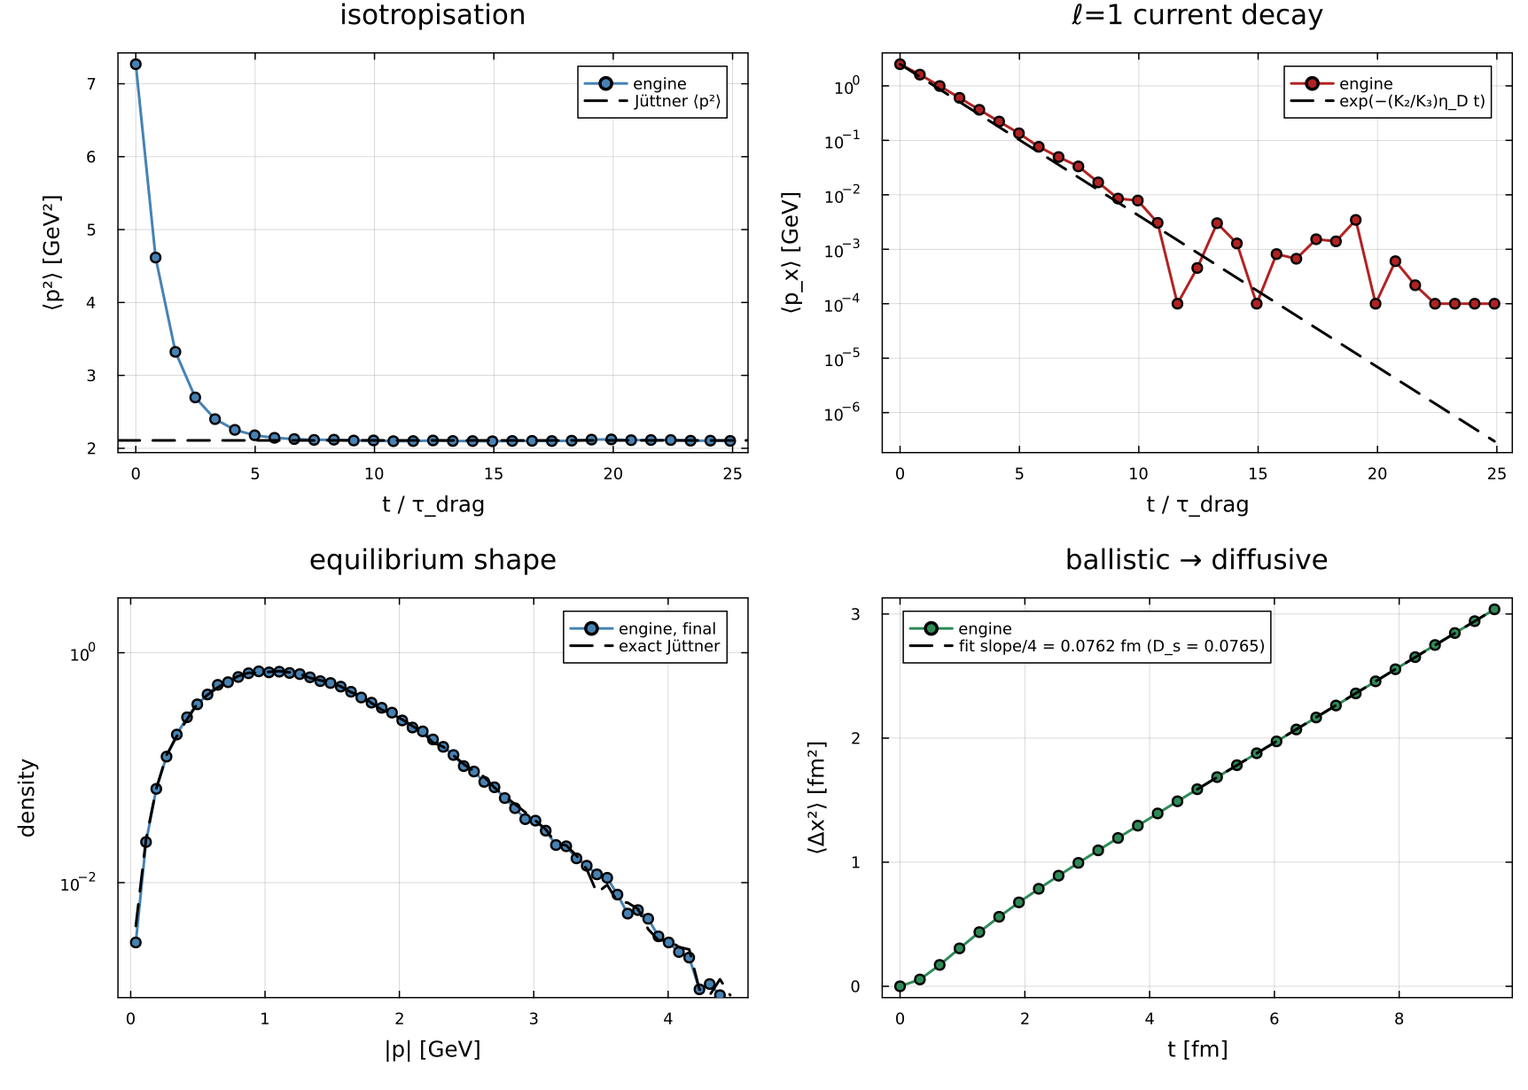
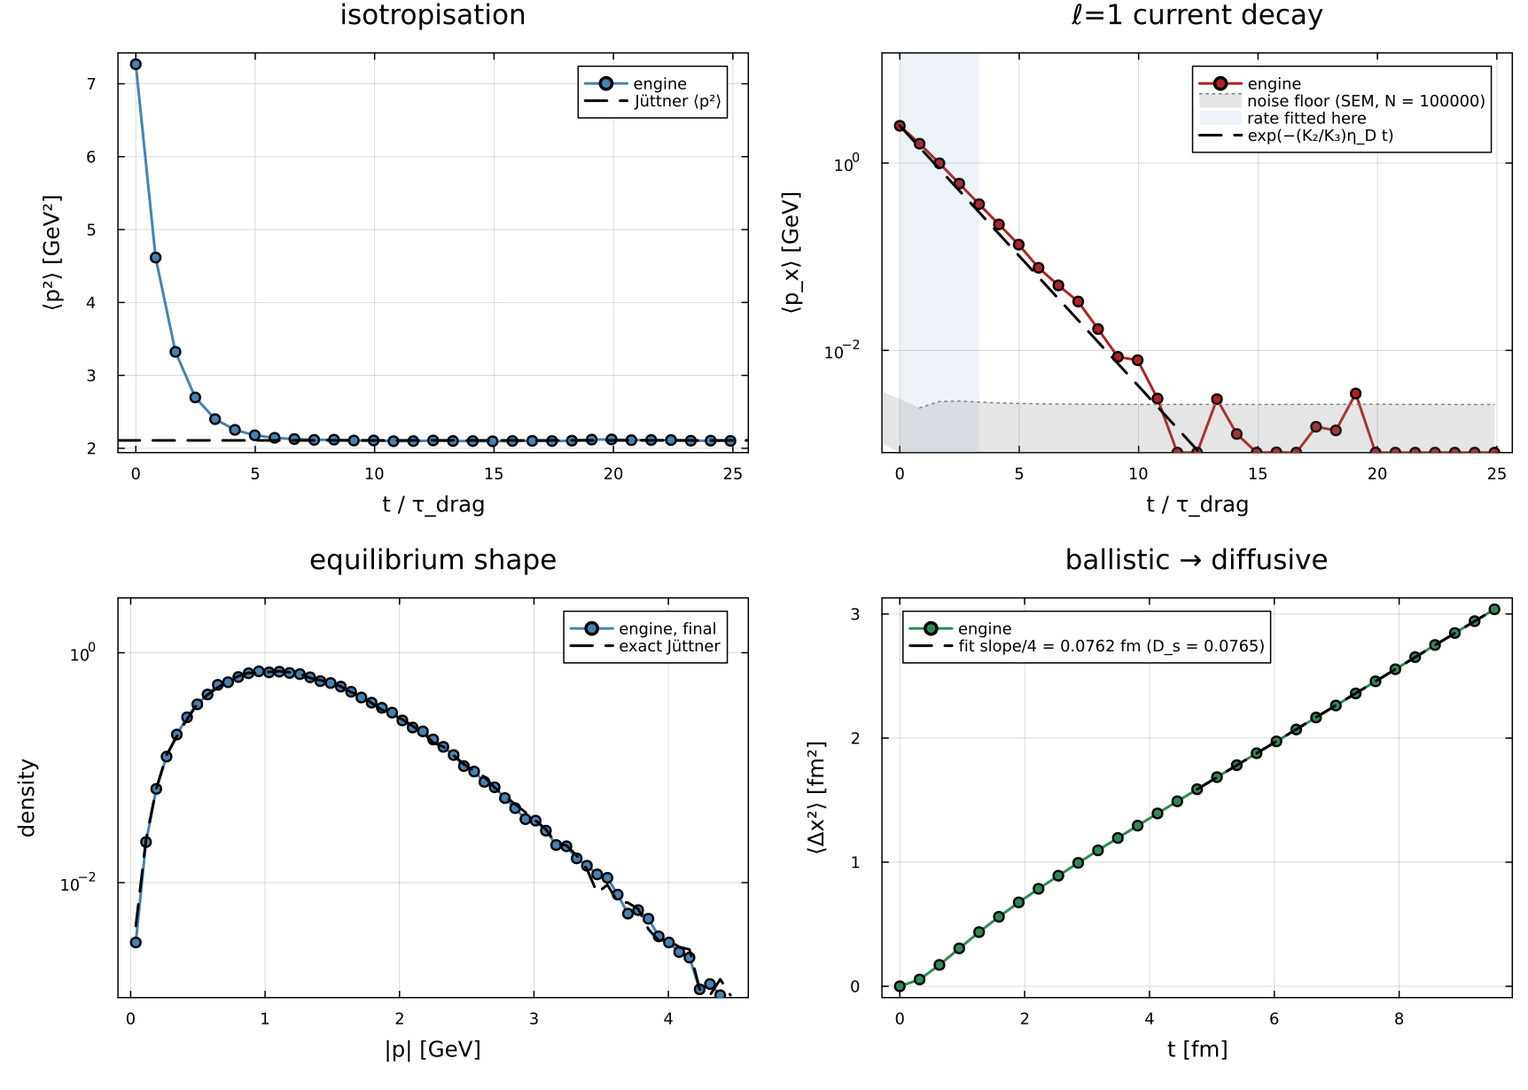
0.2.4 — the README says physics, and three diagnostics that could not be heard
The README's limits section was headed "The example that exists because of a real
bug" and read as an account of which drivers once got it wrong. It now states the
physics: DsT = 0, DsT -> 0+ and :none are three limits because the ORDER of limits
matters, and the numbers quoted are the ones the figure underneath actually
measures (23 %, not the 19.5 % of a gate run at a different tau_f).

S5 was rebuilt rather than dropped. Its gate is PER PARTICLE but the figure was a
|p| histogram, which throws away exactly that and showed two distributions
overlapping. It now draws each particle's residual against its radius with the
predicted one-step lag -m*d(gamma v)/dr*v*dt through it: the measurement sits ON
the prediction and is identically zero past r = 8 fm where dv/dr = 0.

Three defects, none of which moves a number (10/10 corpus hashes bit-identical):

  - The dropped-history warning carried maxlog = 1, which is keyed by source
    location, so in a campaign only the FIRST affected run spoke. Measured: five
    consecutive runs each returned history to 0.9 fm of a requested 1.4 fm --
    half the evolution -- and four were silent. This is the one thing that warning
    exists to prevent.
  - bench_physics_gates gate (b), labelled "tail after 10 tau_drag", measured the
    tail after 5.0: its last snapshot was at exactly half the window. Gate (a)
    lost 12.4 % of its diffusive window. Both PASSED, so only the warning above
[…]

diff --git a/README.md b/README.md
@@ -6,7 +6,7 @@
 </p>
 
 <p align="center">
-  <img alt="version"  src="https://img.shields.io/badge/version-0.2.3-blue">
+  <img alt="version"  src="https://img.shields.io/badge/version-0.2.4-blue">
   <img alt="license"  src="https://img.shields.io/badge/license-MIT-green">
   <img alt="julia"    src="https://img.shields.io/badge/Julia-1.12-9558B2?logo=julia&logoColor=white">
   <img alt="backends" src="https://img.shields.io/badge/backends-CPU%20%2B%20CUDA-76B900">
@@ -18,7 +18,7 @@
 </p>
 <p align="center">
   <sub>
-    <b>Everything above is produced by one 139-line example</b> (<a href="examples/01_uniform_bath.jl"><code>examples/01_uniform_bath.jl</code></a>)
+    <b>Everything above is produced by a single example script</b> (<a href="examples/01_uniform_bath.jl"><code>examples/01_uniform_bath.jl</code></a>)
     and every dashed line is a closed form, not a fit: the Jüttner ⟨p²⟩, the ℓ=1 decay rate
     <code>(K₂/K₃)·η_D</code>, the exact Jüttner momentum distribution, and <code>D_s = D_sT/T·ħc</code>
     from the mean-square displacement (measured −0.45 %).
@@ -117,7 +117,7 @@ LIM_NOPLOT=1 julia --project=Julia .../examples/03_four_limits.jl     # numbers 
 |---|---|---|
 | [**01**](examples/01_uniform_bath.jl) `uniform_bath` | a box at fixed `T`, no flow, a δ-function initial momentum | what `D_sT` actually sets; that ⟨p²⟩ → the Jüttner value, the current decays at `(K₂/K₃)η_D`, and the MSD slope is `2·d·D_s`. **Everything here has a closed form** — if the engine breaks, it breaks here first |
 | [**02**](examples/02_bjorken_fireball.jl) `bjorken_fireball` | a cooling, expanding fireball; the engine samples a FONLL-shaped density; freeze-out off the snapshots | the production shape of a real run, and the radial flow lifting the `p_T` spectrum (⟨p_T⟩ 1.586 → 1.318 GeV) |
-| [**03**](examples/03_four_limits.jl) `four_limits` | `:langevin`, `:rta`, `DsT = 0`, `DsT → 0⁺`, `:none` on one background | **read this one.** Three of those five were confused with each other in production code. See below |
+| [**03**](examples/03_four_limits.jl) `four_limits` | `:langevin`, `:rta`, `DsT = 0`, `DsT → 0⁺`, `:none` on one background | **read this one before choosing a collision setting.** The three weak-coupling settings are three *different* limits, and the figure separates them |
 | [**04**](examples/04_pz_and_rapidity.jl) `pz_and_rapidity` | `momentum_dimensions = 3`, both `pz_init` modes, `track_eta_s` | what row 3 *means* (`p_z* = m_T sinh(y − η_s)`, not a lab `p_z`), and the kernel that makes `dN/dy = ρ(η_s) ⊛ P(K)` exact |
 | [**05**](examples/05_gpu_freezeout.jl) `gpu_freezeout` | the GPU path with `freezeout_capture` | the production pattern: memory ∝ `N` instead of `N·(saves+1)`, the crossing resolved to `Δt`, and the fact that the run does **not** stop at freeze-out |
 
@@ -126,22 +126,33 @@ LIM_NOPLOT=1 julia --project=Julia .../examples/03_four_limits.jl     # numbers 
 <td width="25%"><a href="examples/02_bjorken_fireball.jl"><img src="examples/figures/02_bjorken_fireball.png" alt="02"></a><br><sub><b>02</b> a heavy-ion run: the radial flow lifting the charm p_T spectrum, the freeze-out time distribution, the radial expansion</sub></td>
 <td width="25%"><a href="examples/04_pz_and_rapidity.jl"><img src="examples/figures/04_pz_and_rapidity.png" alt="04"></a><br><sub><b>04</b> the two p_z* initialisations being forgotten, and the dN/dy kernel P(K) they leave behind</sub></td>
 <td width="25%"><a href="examples/05_gpu_freezeout.jl"><img src="examples/figures/05_gpu_freezeout.png" alt="05"></a><br><sub><b>05</b> the GPU freeze-out latch: spectrum, crossing time resolved to Δt, and the freeze-out surface</sub></td>
-<td width="25%"><a href="bench/bench_semianalytic.jl"><img src="bench/results/figures/semianalytic_S5_blastwave_vs_free.png" alt="S5"></a><br><sub><b>S5</b> the comoving blast wave against free streaming — two limits that are <i>not</i> each other</sub></td>
+<td width="25%"><a href="examples/03_four_limits.jl"><img src="examples/figures/03_four_limits.png" alt="03"></a><br><sub><b>03</b> the five collision settings on one background: which of them thermalise, which stay glued to the flow, and which do nothing at all</sub></td>
 </tr>
 </table>
 
-### The example that exists because of a real bug
+### The weak-coupling limits
 
 <p align="center">
-  <img src="examples/figures/03_four_limits.png" alt="The four limits" width="94%">
+  <img src="examples/figures/03_four_limits.png" alt="The collision settings side by side" width="94%">
 </p>
 
-`D_sT = 0` is **not** free streaming — it is the *comoving* limit, every quark handed `p = m·γ(r)v(r)`
-with **no thermal width at all** (the black spike). `D_sT → 0⁺` is a *third* thing: it thermalises
-*with* the fluid and keeps the full Jüttner width, landing ~20 % higher in ⟨p_x⟩ (orange). Free
-streaming is `collision_mode = :none` (red spike), and until v0.2.3 the only thing that actually
-free-streamed was a *negative* `D_sT`, by accident. Three places in the parent repository — including
-a driver that produced a figure — asked for `D_sT = 0` and called the result "free streaming".
+Three settings sit near zero coupling and none of them is the same limit.
+
+`D_sT = 0` is the **comoving** limit: every quark is handed `p = m·γ(r)v(r)` at its own radius, with
+no thermal width at all — `⟨p_x⟩ = 0.86603 GeV` and `sd(p_x) = 0` exactly (the black spike).
+`D_sT → 0⁺` is a **different** limit: the quark thermalises *with* the fluid and keeps the full
+Jüttner width, landing on `γ·v·⟨E*⟩ = 1.068 GeV`, **23 % higher** (orange). **Free streaming** is
+neither, and is `collision_mode = :none` (red spike): no drag, no noise, no frame change, so the
+momenta are exactly constant — the boosted initial momentum, 2.196 GeV, forever.
+
+The two zero-coupling limits differ because the order of limits matters. At `D_sT = 0` the noise is
+switched off before the drag has anywhere to relax to, so the particle *is* the fluid element. At
+`D_sT → 0⁺` drag and noise stay in Einstein balance all the way down, so the equilibrium is the
+local Jüttner however small the coefficient gets. `:none` removes the collision term itself, which
+is a third thing again.
+
+`m ≤ 0` and `D_sT < 0` are refused since v0.2.3; before that they degraded silently to free
+streaming (CHANGELOG 0.2.3).
 
 ## Validation
 
@@ -176,8 +187,8 @@ realised rate was 22 % too fast).
 | Bjorken redshift | `⟨p_z*²⟩ ∝ 1/τ²` telescopes | **2.9e-13** |
 | free streaming + redshift | per-particle closed form for `x_⊥(τ)` | converges at order **1.00** |
 | equilibrium **shape** | two-sample KS vs the exact Jüttner, 2 and 3 rows | 0.0019 / 0.0039 (95 % critical 0.0043) |
-| comoving blast wave | `p = m·γ(r)v(r)`, **per particle** | one-step lag, order **1.00** |
-| MSD slope | `2·d·D_s` at three `z` | 0.9896 / 0.9956 / 0.9975 |
+| comoving blast wave | `p = m·γ(r)v(r)`, **per particle**, and the residual's shape in `r` | the predicted one-step lag `−m·d(γv)/dr·v·Δt`, order **1.00** |
+| MSD slope | `2·d·D_s` at three `z` | 0.9975 / 0.9969 / 0.9975 (CPU) |
 | ℓ=1 rate | `η_D·K₂/K₃` (3 rows), `λ₁(2D)·η_D` (2 rows) | 0.6364 vs 0.6403 · 0.6952 vs 0.6977 |
 
 `σ_xp` is the sharp one: it is built from the momentum update and the position update *together*,
@@ -185,6 +196,16 @@ so an operator-split error shows there while `σ_pp` and `σ_xx` can each look r
 
 <p align="center">
   <img src="bench/results/figures/semianalytic_S1_ou_covariance.png" alt="OU phase-space covariance" width="70%">
+</p>
+
+The comoving limit is checked the same way — per particle, not through a moment. Every quark must
+carry exactly `p = m·γ(r)v(r)` at its own radius, and the residual left over is not merely small but
+*predicted*: the momentum is written at the radius the particle has just left, so it lags by
+`−m·d(γv)/dr·v·Δt`, and it vanishes identically beyond `r = 8 fm` where the flow profile saturates
+and `dv/dr = 0`.
+
+<p align="center">
+  <img src="bench/results/figures/semianalytic_S5_blastwave_vs_free.png" alt="Comoving blast wave, per particle" width="94%">
 </p>
 
 ### How wrong is it at a given Δt?
@@ -207,9 +228,9 @@ D_s is unbiased to ≲1 % for η_D Δt ≤ 0.08
 Israel–Stewart τ_n that Fluidum's `τ_diffusion_hadron` evaluates. For a Fokker–Planck process
 with drag η_D the ℓ=1 mode decays at `η_D·K₂/K₃` (an exact 3-D identity), so a Langevin built
 from `tau_drag` reproduces **both** hydro coefficients, D_s and τ_n. Building the drag from
-`tau_n_main3` applies K₃/K₂ once too often and inflates the realised D_s by 1.26–1.74× — that
-was the state of every product before 2026-08-02. The BGK (`:rta`) path needs τ_n, not the drag
-(`build_taun_current_spline`). `test/runtests.jl` guards the ratio pointwise.
+`tau_n_main3` instead applies K₃/K₂ once too often and inflates the realised D_s by 1.26–1.74×.
+The BGK (`:rta`) path needs τ_n, not the drag (`build_taun_current_spline`).
+`test/runtests.jl` guards the ratio pointwise.
 
 `LV_TAUN_SCALE` (env var, default 1) rescales **both** splines — diagnostic only; it moves D_s
 too. The bench suite refuses to run under any other value.
@@ -220,9 +241,9 @@ A 2-D momentum run relaxes to the 2-D Jüttner, whose ℓ=1 rate differs from th
 `dimensions = 2, momentum_dimensions = 3` is the combination that removes that offset: three
 momentum components on a two-dimensional transverse plane.
 
-**3. `D_sT = 0`, `D_sT → 0⁺` and `:none` are three different limits.** See the figure above.
-`m ≤ 0` and `D_sT < 0` are refused since v0.2.3 — before that they degraded *silently* to free
-streaming, producing a run indistinguishable from a Langevin run except by its numbers.
+**3. `D_sT = 0`, `D_sT → 0⁺` and `:none` are three different limits.** See
+["The weak-coupling limits"](#the-weak-coupling-limits) above. `m ≤ 0` and `D_sT < 0` are refused
+since v0.2.3; before that they degraded silently to free streaming.
 
 
 ## CPU vs GPU
@@ -451,6 +472,39 @@ with the pre-fix measurement in the comment, so a regression has something speci
   no escapes), and `track_eta_s` is an exact passenger (momenta and positions bit-identical with it
   on and off, max |Δ| = **0.000e+00**). The 0.2.1 hot-loop rewrite has held: **0 bytes per
   particle-step** across CPU × N ∈ {2·10⁴, 10⁵} × pdim ∈ {2, 3} × {`:langevin`, `:rta`}.
+
+#### THE DIAGNOSTICS THAT COULD NOT BE HEARD (found 2026-09-15, all FIXED in 0.2.4)
+
+0.2.3 asked what the engine does at a limit. This pass asked the next question — whether the
+warnings it added can actually be *heard* in the way the engine is really driven, which is a
+campaign of many runs in one session. Three defects, none of which moves a number: all ten corpus
+CPU hashes reproduce bit for bit and the GPU moments match.
+
+- 🔴 **The dropped-history warning carried `maxlog = 1`, so only the FIRST affected run in a session
+  said anything.** `maxlog` is keyed by source location — exactly the reason the 0.2.3 window and
+  escaped-particle warnings were deliberately written without it. Losing history silently is the one
+  thing this warning exists to prevent, and it prevented it once per session. Measured: five
+  consecutive `_snapshot_times` calls at t0 = 0.4, tf = 1.4, Δt = 10⁻³, `save_interval` = 0.5 each
+  returned history only out to **0.9 fm of a requested 1.4 fm — half the evolution — and four of the
+  five were silent.** The `maxlog` is gone, and the message now names `requested_final_time` and
+  `last_snapshot` so the size of the loss is in the warning itself. Guarded in `runtests.jl`: five
+  calls must yield five warnings. The guard was falsified against the old behaviour (it sees one).
+- **`_to_cdf!`'s tie-breaking nudge was an absolute `eps(Float64)` and did nothing above a
+  cumulative of ≈10³.** `c[k-1] + 2.2e-16` is not representable next to a value of 10³, so `max`
+  returned `c[k-1]` and the CDF came out flat exactly where the guard was meant to bite — while the
+  docstring promised "strictly increasing". Measured: **149 tied knots at every overall scale ≥ 10³,
+  0 at scale 1**, on a FONLL-shaped density with a hard cutoff over 300 nodes. No result moved (the
+  ties fall in the zero-density tail and the sampled ⟨p⟩ was bit-identical from scale 1 to 10⁹),
+  which is why nothing caught it; a tie in a populated region would not have been harmless. Now
+  `nextfloat`, the representable step at any magnitude.
+- 🔴 **`bench_physics_gates.jl` gate (b) is labelled "tail after 10 τ_drag" and measured the tail
+  after 5.0.** These gates take `tfinal` from a physical time (`10/η_D` = 3.826 fm), so `tfinal/Δt`
+  is an arbitrary real, `steps % save_every ≠ 0`, and with `save = tfinal/2` the whole trailing save
+  interval went: last snapshot **1.914 fm, exactly half the window**. Gate (a) lost 12.4 % of its
+  diffusive window at T = 0.45 and 0.30. **Both gates still passed** — (b) starts in equilibrium, so
+  what it measures is stationary — so nothing announced it except the warning that the defect above
+  had silenced. `box_run` now snaps `tfinal` to an exact multiple of the save interval; all 18 gates
+  still pass, over the windows their labels claim.
 
 #### What regenerates
 

diff --git a/CHANGELOG.md b/CHANGELOG.md
@@ -3,6 +3,70 @@
 Entries marked ⚠ changed the default dynamics or the meaning of a label: outputs produced
 before them are not comparable to outputs produced after.
 
+## 0.2.4 — 2026-09-15  (the dropped-history warning could not be heard, and a gate measured half its window)
+
+No change to the dynamics: all ten `regression_corpus.jl` CPU hashes reproduce bit for bit and the
+GPU moments match. The defects are in the *diagnostics*, in one benchmark's window, and in a guard
+that was silently doing nothing.
+
+### Fixed
+1. 🔴 **The "save_interval does not divide the evolution" warning carried `maxlog = 1`, so in a
+   campaign only the FIRST affected run said so.** `maxlog` is keyed by source location — the exact
+   reason the 0.2.3 window and escaped-particle warnings were written without it (see
+   `_warn_escaped_particles`). Dropping history is precisely what that warning exists to announce,
+   and it announced it once per session. Measured 2026-09-15: five consecutive `_snapshot_times`
+   calls at t0 = 0.4, tf = 1.4, Δt = 10⁻³, `save_interval` = 0.5 each returned history only to
+   **0.9 fm of the requested 1.4 fm — half the evolution — and four of the five were silent**. The
+   `maxlog` is gone and the message now also names `requested_final_time` and `last_snapshot`, so
+   the size of the loss is in the warning rather than left to be worked out. Guarded in
+   `test/runtests.jl` "snapshot time axis matches the snapshots taken": five calls must produce five
+   warnings (the guard was falsified against the old behaviour — it sees 1, and fails).
+2. 🔴 **`bench_physics_gates.jl` gate (b), labelled "tail after 10 τ_drag", measured the tail after
+   5.0 τ_drag.** Its `tfinal` comes from a physical time (`10/η_D = 3.826 fm`), so `tfinal/Δt` is an
+   arbitrary real, `steps % save_every ≠ 0`, and with `save = tfinal/2` the entire trailing save
+   interval went: last snapshot **1.914 fm, exactly half the window**. Gate (a) lost 12.4 % of its
+   diffusive window at T = 0.45 and T = 0.30 the same way. Both gates still PASSED — (b) starts in
+   equilibrium, so its observable is stationary — which is why nothing caught it except the driver
+   warning silenced by defect 1. `box_run` now snaps `tfinal` to an exact multiple of the save
+   interval. All 18 gates still pass, now over the windows their labels claim. The snap also made
+   gate (a) *sharper*, which is the sign the lost window was degrading the measurement and not only
+   mislabelling it: D_s measured/nominal at z = 3.33 / 5.00 / 9.62 went **0.9896 / 0.9956 / 0.9975 →
+   0.9975 / 0.9969 / 0.9975** on the CPU and **0.9948 / 1.0072 / 1.0034 → 0.9978 / 0.9974 / 0.9986**
+   on the GPU — worst deviation 1.04 % → 0.31 %.
+
+3. **`_to_cdf!`'s tie-breaking nudge was an absolute `eps(Float64)`, so it did nothing above a
+   cumulative of ≈10³.** `max(c[k], c[k-1] + eps(Float64))` adds 2.2e-16 — not representable next to
+   a value of 10³ or more, so `max` returned `c[k-1]` and the array came out flat exactly where the
+   guard was meant to bite, while the docstring said "strictly increasing". Measured 2026-09-15 on a
+   FONLL-shaped density with a hard cutoff, 300 nodes: **149 tied knots at every overall scale
+   ≥ 10³, against 0 at scale 1.** It changed no result — the ties land in the zero-density tail,
+   `LinearInterpolation` handles the flat region, and the sampled ⟨p⟩ was bit-identical from scale 1
+   to 10⁹ — which is why nothing caught it, but a tie in a populated region would not have been
+   harmless. Now `nextfloat(c[k-1])`, which is the representable step at any magnitude: strictly
+   increasing at every scale tested, ⟨p⟩ unchanged, all ten corpus hashes unchanged.
+
+### Changed — figures and documentation
+- **`bench_semianalytic.jl` (S5) is plotted as what its gate measures.** The gate is per-particle
+  (`max |p_meas − m·γ(r)v(r)|`, order 1.00); the figure was a histogram of `|p|`, which throws that
+  away and showed the comoving and free-streaming distributions overlapping instead. It now draws
+  each particle's own residual against its radius with the predicted one-step lag
+  `−m·d(γv)/dr·v·Δt` through it — the residual follows the closed form in *shape*, and is
+  identically zero past r = 8 fm where the flow profile saturates and dv/dr = 0 — plus the Δt
+  convergence. The old plot's sign was never stated; the residual is negative (the momentum is
+  written at the radius the particle has just left).
+- **`examples/01_uniform_bath.jl`, the ℓ=1 panel, now draws the statistical floor.** The current
+  decays exponentially for ~11 τ_drag and then flattens into the ensemble's own standard error on
+  ⟨p_x⟩. Unmarked, that tail read as the engine leaving the closed form; the panel now shades the
+  SEM band and the window the rate is actually fitted over. (⚠ the floor is taken over the
+  equilibrated snapshots: the IC is a δ-function in p, so `sem_px[1]` is exactly 0 and a plain
+  minimum collapses the log axis.)
+- **The module docstring said the drag is `η_D = T²/(M·D_sT)·(M/E)`.** That is `η_eff`;
+  `η_D = T²/(M·D_sT)` and the `M/E*` factor is the relativistic branch. The README and the kernel
+  docstrings had it right.
+- **README and `examples/README.md`**: the limits section is written as physics rather than as an
+  account of which parent-repo drivers once got it wrong, and the fourth thumbnail is example 03
+  rather than a bench figure.
+
 ## 0.2.3 — 2026-09-02  (the limits and the input contract: seven defects, all fixed)
 
 ⚠ **THIS RELEASE CHANGES THE DEFAULT DYNAMICS.** Four of the ten `regression_corpus.jl` hashes were

diff --git a/examples/README.md b/examples/README.md
@@ -17,7 +17,7 @@ carry, kept out of the way so each example is only about the engine.
 |---|---|---|
 | `01_uniform_bath.jl` | a box at fixed `T`, no flow, a δ-function initial momentum | ⟨p²⟩ → the Jüttner value, the ℓ=1 current decaying at exactly `(K₂/K₃)η_D`, the MSD slope = `2·d·D_s`, and the final `\|p\|` histogram on top of the exact Jüttner. Everything here has a closed form — if the engine breaks, it breaks here first |
 | `02_bjorken_fireball.jl` | a cooling, radially expanding fireball; the engine samples from a FONLL-shaped density; `DsT_linear`; freeze-out read off the snapshots | the radial flow picking the `p_T` spectrum up, and the freeze-out/initial ratio. Also the cost of doing freeze-out from snapshots: it is resolved to the save cadence, not to `Δt` |
-| `03_four_limits.jl` | Langevin, RTA, `DsT = 0`, `DsT → 0⁺` and `collision_mode = :none`, on one background | **the example to read if you read one.** `DsT = 0` is the *comoving* limit (`p = m·γ·v`, no thermal width), `DsT → 0⁺` is a different limit again (thermal comoving, ≈ 20 % higher `⟨p_x⟩`), and free streaming is `:none`. Three places in this repository had those confused |
+| `03_four_limits.jl` | Langevin, RTA, `DsT = 0`, `DsT → 0⁺` and `collision_mode = :none`, on one background | **the example to read if you read one.** The three weak-coupling settings are three different limits: `DsT = 0` is *comoving* (`p = m·γ·v`, no thermal width), `DsT → 0⁺` is *thermal* comoving (23 % higher `⟨p_x⟩` in this setup), and free streaming is `:none` |
 | `04_pz_and_rapidity.jl` | `momentum_dimensions = 3`, both `pz_init` modes, the Bjorken redshift, `track_eta_s` | what row 3 *means* (`p_z* = m_T sinh(y − η_s)`, not a lab `p_z`), how fast the two initialisations are forgotten, and the `dN/dy` kernel `P(K)` that makes `dN/dy = ρ(η_s) ⊛ P(K)` exact |
 | `05_gpu_freezeout.jl` | the GPU path with `freezeout_capture` | the production pattern: memory ∝ `N` instead of `N·(saves+1)` (≈ 500× here), the crossing resolved to `Δt`, and the fact that the run does **not** stop at freeze-out. Falls back to the CPU without CUDA |
 
@@ -30,8 +30,8 @@ carry, kept out of the way so each example is only about the engine.
   and the hydro coefficients are matched in the 3-D theory. `momentum_dimensions = 3` with
   `dimensions = 2` is the combination that removes that offset.
 - **One transport coefficient, not two.** `D_sT` fixes `τ_drag = m·D_sT/T²`, and `τ_n = τ_drag·K₃/K₂`
-  is *derived*. Building the drag from `tau_n_main3` applies `K₃/K₂` once too often — it was the
-  state of every product in this repository before 2026-08-02.
+  is *derived*. Building the drag from `tau_n_main3` instead applies `K₃/K₂` once too often and
+  inflates the realised `D_s` by 1.26–1.74×.
 - **`proper_time_kicks = true` on any flowing background.** The undilated lab-`Δt` kick makes the
   stationary state `f_J/(γ(1+v·v_r))` instead of the boosted Jüttner, i.e. a spurious inward
   diffusion current. It defaults to `false` only so that older products stay bit-identical.
